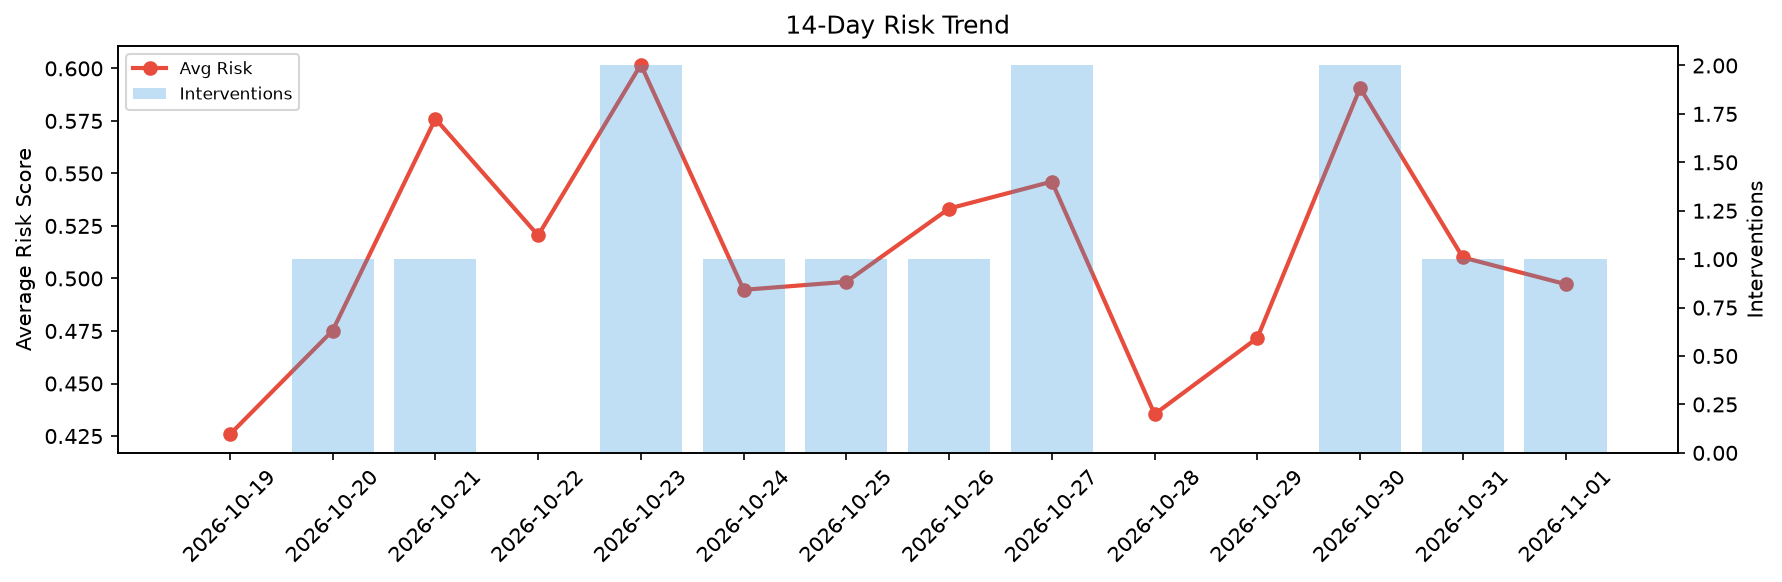
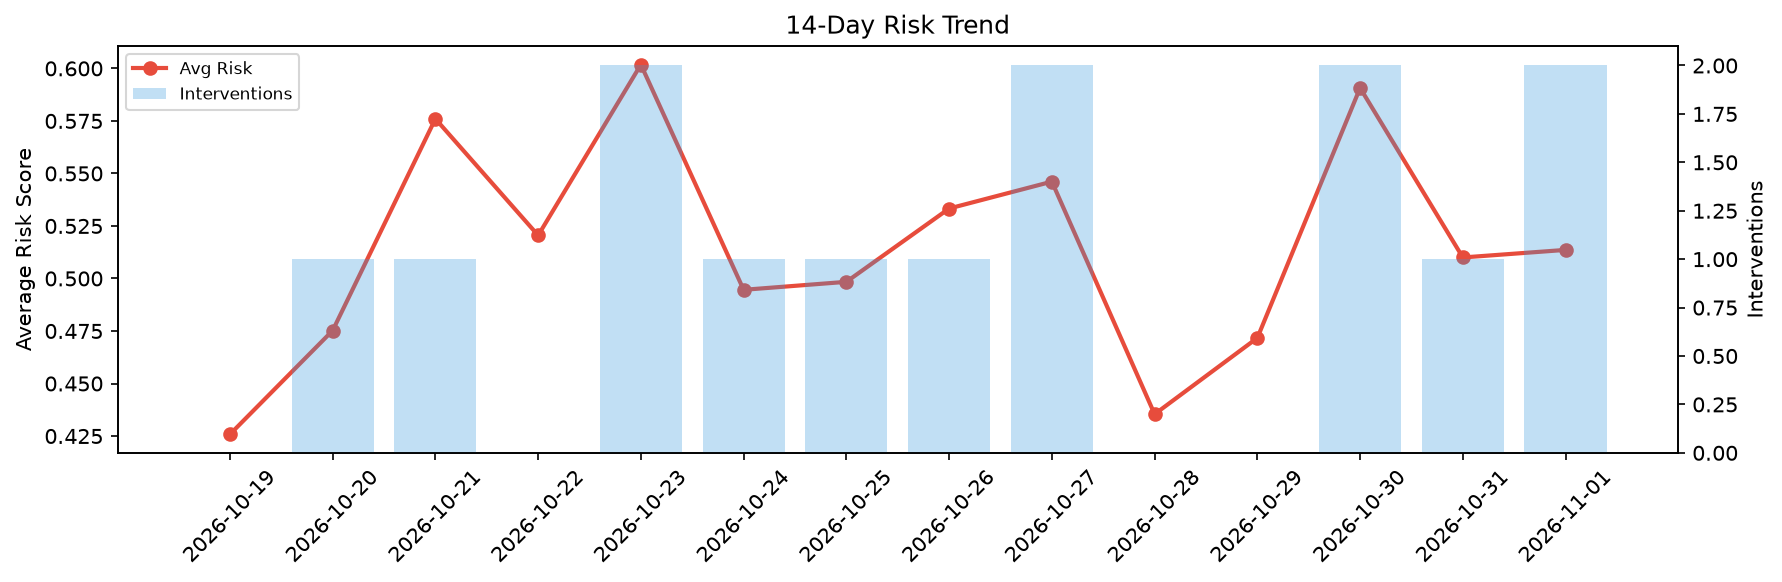
agent-improvement: daily cycle 2026-11-01T23:33

Changed region(s): [[0.8025, 0.0928, 0.9259, 0.4948]]

diff --git a/logs/2026-11-01.md b/logs/2026-11-01.md
@@ -1,6 +1,6 @@
 # Agent Improvement Report — 2026-11-01
 
-**Cycle ID:** `4b735515` | **Avg Risk:** 0.4973 | **Interventions:** 1/4
+**Cycle ID:** `3a581d11` | **Avg Risk:** 0.5136 | **Interventions:** 2/4
 
 ![Dashboard](2026-11-01_dashboard.png)
 
@@ -10,18 +10,18 @@
 
 | Domain | Risk Score | Decision | Alerts |
 |--------|-----------|----------|--------|
-| code_review | 0.5247 | monitor | complexity |
-| incident_response | 0.5761 | monitor | none |
-| data_pipeline | 0.2126 | monitor | none |
-| deployment | 0.6758 | intervene | rollback_rate, latency_p99 |
+| code_review | 0.197 | monitor | none |
+| incident_response | 0.5268 | monitor | severity |
+| data_pipeline | 0.6058 | intervene | freshness |
+| deployment | 0.7248 | intervene | canary_error |
 
 ## Delta vs Yesterday
 
 | Domain | Today | Yesterday | Change |
 |--------|-------|-----------|--------|
-| code_review | 0.5247 | 0.4034 | 📈 30.1% |
-| incident_response | 0.5761 | 0.3838 | 📈 50.1% |
-| data_pipeline | 0.2126 | 0.5256 | 📉 -59.6% |
-| deployment | 0.6758 | 0.7272 | 📉 -7.1% |
+| code_review | 0.197 | 0.4034 | 📉 -51.2% |
+| incident_response | 0.5268 | 0.3838 | 📈 37.3% |
+| data_pipeline | 0.6058 | 0.5256 | 📈 15.3% |
+| deployment | 0.7248 | 0.7272 | 📉 -0.3% |
 
 **Refinement:** `{'adjustment': 'tighten_thresholds', 'trend': 'degrading', 'window': 4}`
